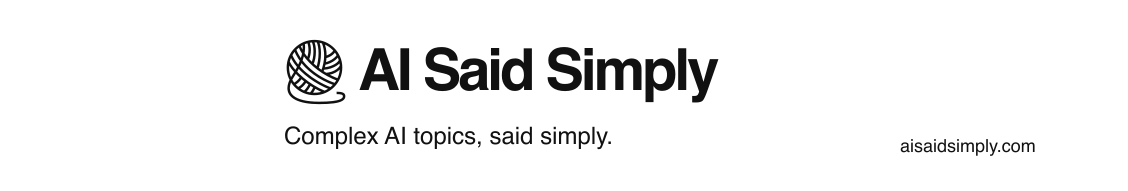
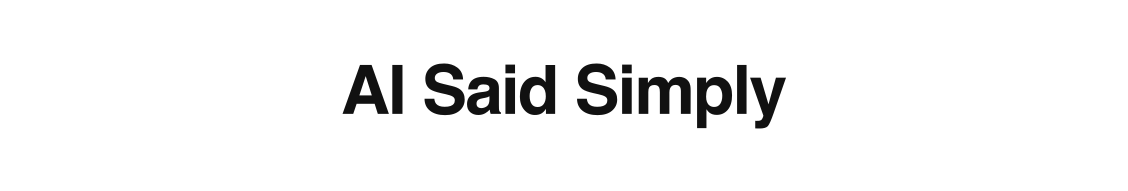
Finalize rebrand covers, social link, and launch record

Changed region(s): [[0.2482, 0.2094, 0.7137, 0.6806], [0.2482, 0.6545, 0.5585, 0.7592], [0.7757, 0.733, 0.9309, 0.8115]]

diff --git a/app/contact/page.tsx b/app/contact/page.tsx
@@ -11,7 +11,7 @@ export const metadata: Metadata = {
 };
 
 const socialChannels = [
-  { name: "LinkedIn", href: "https://www.linkedin.com/company/ai-safety-said-simply/", path: "M20.45 20.45h-3.55v-5.57c0-1.33-.03-3.04-1.85-3.04-1.86 0-2.14 1.45-2.14 2.94v5.67H9.35V9h3.41v1.56h.05c.47-.9 1.63-1.85 3.36-1.85 3.6 0 4.27 2.37 4.27 5.46v6.28ZM5.34 7.43a2.06 2.06 0 1 1 0-4.12 2.06 2.06 0 0 1 0 4.12ZM7.12 20.45H3.56V9h3.56v11.45Z" },
+  { name: "LinkedIn", href: "https://www.linkedin.com/company/ai-said-simply/", path: "M20.45 20.45h-3.55v-5.57c0-1.33-.03-3.04-1.85-3.04-1.86 0-2.14 1.45-2.14 2.94v5.67H9.35V9h3.41v1.56h.05c.47-.9 1.63-1.85 3.36-1.85 3.6 0 4.27 2.37 4.27 5.46v6.28ZM5.34 7.43a2.06 2.06 0 1 1 0-4.12 2.06 2.06 0 0 1 0 4.12ZM7.12 20.45H3.56V9h3.56v11.45Z" },
   { name: "YouTube", path: "M23.5 6.2a3 3 0 0 0-2.1-2.1C19.5 3.6 12 3.6 12 3.6s-7.5 0-9.4.5A3 3 0 0 0 .5 6.2C0 8.1 0 12 0 12s0 3.9.5 5.8a3 3 0 0 0 2.1 2.1c1.9.5 9.4.5 9.4.5s7.5 0 9.4-.5a3 3 0 0 0 2.1-2.1c.5-1.9.5-5.8.5-5.8s0-3.9-.5-5.8ZM9.6 15.6V8.4L15.8 12l-6.2 3.6Z" },
   { name: "X / Twitter", href: "https://x.com/AISafetySimply", path: "M18.9 2H22l-6.8 7.8L23.2 22h-6.3L12 14.6 5.5 22H2.3l8.2-9.4L.8 2h6.5l4.5 6.8L18.9 2ZM17.9 20h1.7L6.3 4H4.5L17.9 20Z" },
   { name: "Substack", path: "M3 0h18v2H3zm0 5h18v2H3zm0 5h18v14l-9-5-9 5Z" },

diff --git a/docs/rebrand-launch-checklist.md b/docs/rebrand-launch-checklist.md
@@ -30,27 +30,27 @@ The user authorized autonomous execution of the rebrand on 4 November 2026. The 
 - [x] Resend verifies `updates.aisaidsimply.com` and all four sending records.
 - [x] Existing segment renamed to AI Said Simply; ID unchanged.
 - [x] New sender delivered to Resend's automated test recipient.
-- [ ] Three authorized inbound tests confirmed in ImprovMX logs.
+- [x] All three authorized inbound tests show FORWARDED in ImprovMX to the approved Gmail destinations. The first kaustubh attempt hit a transient sender-IP block; one retry succeeded.
 - [x] Local tests pass: 24 tests. Lint and webpack production build pass.
-- [ ] Staged production deployment reviewed.
-- [ ] New-domain production environment and deployment active.
-- [ ] Old-host and new-www permanent redirects verified with paths, queries, and fragments.
-- [ ] Old newsletter token tested after redirect.
-- [ ] All production forms verified.
-- [ ] Search Console address change and sitemap submission complete.
+- [x] Staged production deployment reviewed before promotion.
+- [x] New-domain production environment and deployment active.
+- [x] Old-host and new-www permanent redirects verified with paths, queries, and fragments.
+- [x] Old newsletter token tested after redirect; confirmation succeeded and the temporary contact was removed.
+- [x] Production feedback and team-interest forms accepted labeled tests; all four APIs reject invalid origins. Newsletter confirmation succeeded. Media-guide validation and automated route tests pass; no extra live delivery test was sent.
+- [x] Search Console verifies both domain properties. The new sitemap shows Success. Google validated the redirects and accepted the address change on 5 November 2026 UTC.
 
 ## External surfaces
 
 | Surface | Status | Owner / link |
 | --- | --- | --- |
-| Brand package | Existing files updated; banners/package upload pending | [Drive folder](https://drive.google.com/drive/folders/1KlH82QJ-Mg7Pj5Aanxw2pFUMOSc4OzfQ) |
+| Brand package | Existing files and ZIP updated; covers show only “AI Said Simply” | [Drive folder](https://drive.google.com/drive/folders/1KlH82QJ-Mg7Pj5Aanxw2pFUMOSc4OzfQ) |
 | Explainer writer role | Name, domain, links, header and footer updated; role unchanged | [Role document](https://docs.google.com/document/d/1qVayZeIUpKDIa7NQgneNNaFxvQI3dYxt6IwctKqUecM/edit) |
-| Google Forms | Feedback renamed; remaining forms in progress | Existing form IDs and success messages remain unchanged |
-| Fillout application | Pending account inspection | [Application](https://forms.fillout.com/t/iiTZxSnf9tus) |
-| LinkedIn | Pending; retain existing page and followers | [Page](https://www.linkedin.com/company/ai-safety-said-simply/) |
-| X | Pending; retain existing account and followers | [Account](https://x.com/AISafetySimply) |
-| Personal website | Pending controlled source edit | `website-1/src/app/page.tsx` |
-| WAISI | Pending source inspection | [Research page](https://waisi.org/research) |
+| Google Forms | Feedback and team-interest titles renamed; live integration tests pass | Existing form IDs and success messages remain unchanged |
+| Fillout application | Name, heading, confirmation, logo, theme and workspace renamed; questions and response destination preserved | [Application](https://forms.fillout.com/t/iiTZxSnf9tus) |
+| LinkedIn | Name, slug, website, biography and text-only cover saved; nine followers retained | [Page](https://www.linkedin.com/company/ai-said-simply/) |
+| X | New name present; biography, website and text-only cover saved. Eleven followers retained. Handle change requires the user’s password check. | [Account](https://x.com/AISafetySimply) |
+| Personal website | Affiliation name and URL updated in source; existing hidden-affiliation setting preserved. Commit `fc5f09c`. | `website-1/src/app/page.tsx` |
+| WAISI | Research entry renamed and verified live. Commit `8190cab`; safety description unchanged. | [Research page](https://waisi.org/research) |
 | SPAR | Draft request only; listing owner must edit | [Project](https://www.sparai.org/projects/f26/recK4NKaFBvAEznFB/) |
 
 Do not activate the YouTube, Instagram, or Substack placeholders without a verified account.
@@ -65,8 +65,37 @@ Social transition biography: “Clear explainers, interactive demos, and videos 
 
 ## Follow-up and recovery
 
-Record the actual launch date and deployment here after verification. Review errors, email delivery, and forms the next day. Review indexing and external references after one week and one month. Review the transition note 90 days after launch. Keep the old domain redirects for at least one year and keep old email aliases active.
+The site launched on 4 November 2026 (America/Chicago). Source release: `219bb756366005a29519cfceced202e494a6aaee`. Staged deployment `dpl_6qYqKkLeZc8c4TNSkjWzAjWnW7CY` was promoted after checks; the matching Git deployment `dpl_GA7Fak8JgDqp7usj82GfvYKEL2yP` is READY. The old apex, old www, and new www use 308 redirects to the new apex. HTTP requests first receive Vercel’s automatic HTTPS redirect. Review errors, email delivery, and forms the next day. Review indexing and external references after one week and one month. Review the transition note on 2 February 2027. Keep old domain redirects until at least 4 November 2027 and keep old email aliases active.
 
 If a release fails, serve the previous working application on the new domain first. Visitors can cache permanent redirects. Do not redirect the new host back to the old host while the old host redirects forward. Restore compatible environment values and retain both email domains. Use the previous deployment as the source of recovery; re-promote a corrected production deployment to restore automatic assignment if rollback disables it.
 
 No recurring automations were created. Future checks require a later session.
+
+## Verification and review
+
+- The release passed 24 automated tests, lint, a local webpack production build, and the staged Vercel build.
+- An independent reviewer found no critical or important defects. One pre-existing minor remains: Library, Team, and Contact inherit the homepage Open Graph preview title and URL. Their canonical URLs are correct.
+- Mobile homepage, contact, and article layouts fit at 390px. Both Word-template pages render without clipping.
+- Public main pages, sitemap, and robots return 200. Confirmation remains noindex. Browser checks preserved an old article query and fragment, and an old-format newsletter token confirmed successfully after redirect.
+- Feedback and team-interest tests returned 200/ok. All four APIs reject incorrect origins with 403. The media-guide route rejects empty input with 400.
+- The live homepage produced no browser warning or error logs during the final check.
+- All brand files keep their existing Drive IDs and access where an earlier file existed. Social/video folders and the ZIP supply the new additions.
+- Public Fillout inspection confirmed the new heading, full-name logo, and plain white background. All application questions and the AI safety description remain unchanged. Nine prior responses remain.
+- Final proof screenshots and the downloadable package are in `~/Downloads/AI-Said-Simply-rebrand/`.
+
+## Execution rulings
+
+- Reused the existing checkout with an implementation branch; no new worktree was necessary.
+- Rebased onto current production source before edits to preserve newer article changes.
+- Used the authenticated Vercel CLI after the connector rejected team scope. Every mutation targeted the verified project/team.
+- Kept the production launch on hold until the user completed the ImprovMX upgrade. The user explicitly approved recipient copies and three labeled tests.
+- Tested the staged production deployment before promotion, then merged and pushed under the user’s autonomous launch authorization.
+- Preserved article content, form IDs, response destinations, subscriber segment ID, signing secret, old aliases, and old domain registrations.
+- Used visual checks for copy/assets and behavioral tests for domain/email risks.
+- Retained technical repository/project identifiers to avoid unrelated integration changes.
+- Left announcement and SPAR outreach as drafts because the user did not authorize those messages.
+- Kept inactive channel placeholders and historical messaging prose unchanged.
+
+Search verification DNS records: new domain `rec_7218d65d33d7aead6739cd04`; old domain `rec_699d743f051927f424a6954b`. Keep both records. Google reports “This site is currently moving” from the old domain to the new domain. Search indexing will update over time.
+
+Final inbound check: ImprovMX shows FORWARDED for kaustubh, contact and Christine on the new domain. Old aliases remain active.

diff --git a/brand-package/README.md b/brand-package/README.md
@@ -31,4 +31,4 @@ These assets preserve the existing website identity. The yarn mark is a shared o
 
 ## Social and video templates
 
-The `social` folder contains LinkedIn and X banners. The `video` folder contains 1920 × 1080 title and end cards. SVG files remain editable; PNG files are ready to use. Replace the bracketed topic on the title card before export. Keep the full name and domain visible.
+The `social` folder contains LinkedIn and X banners. Covers show only “AI Said Simply”, with no yarn mark, tagline, or domain. The `video` folder contains 1920 × 1080 title and end cards. SVG files remain editable; PNG files are ready to use. Replace the bracketed topic on the title card before export. Keep the full name and domain visible.
